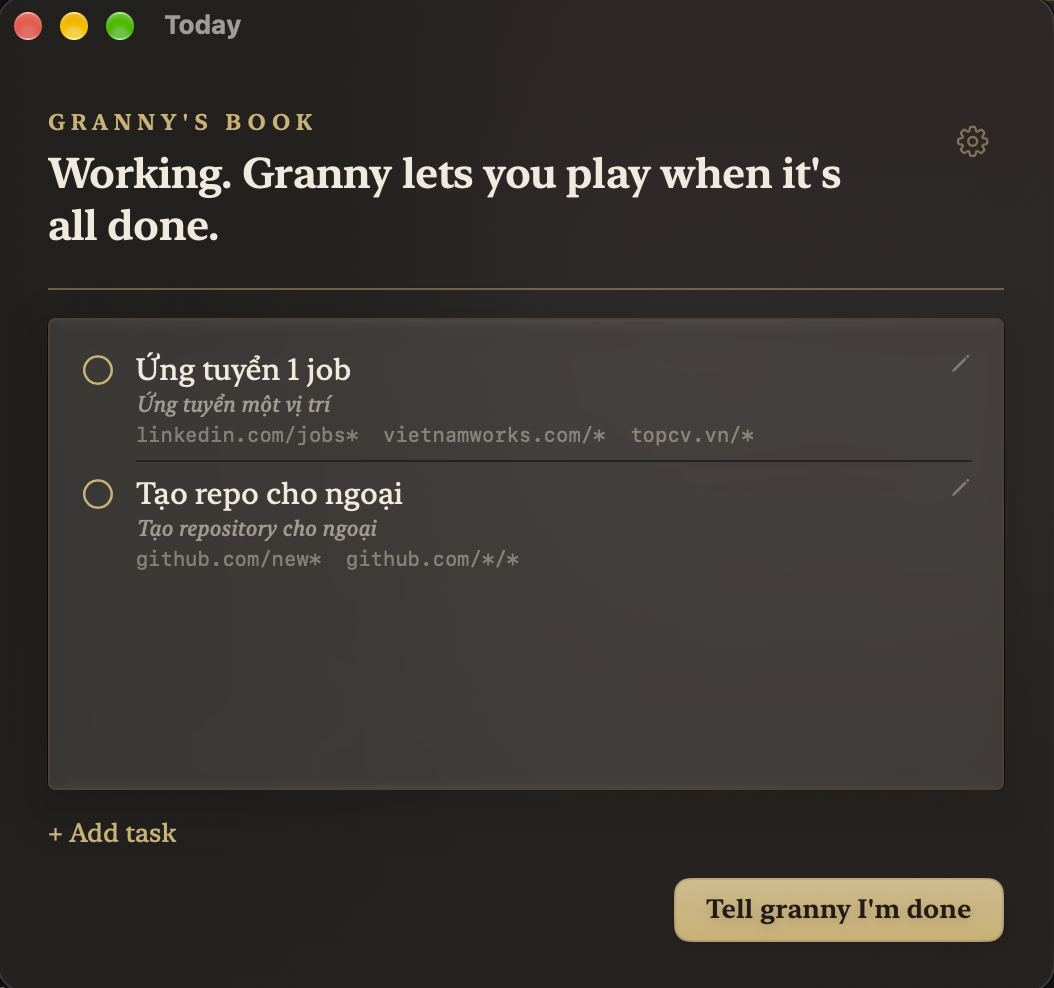
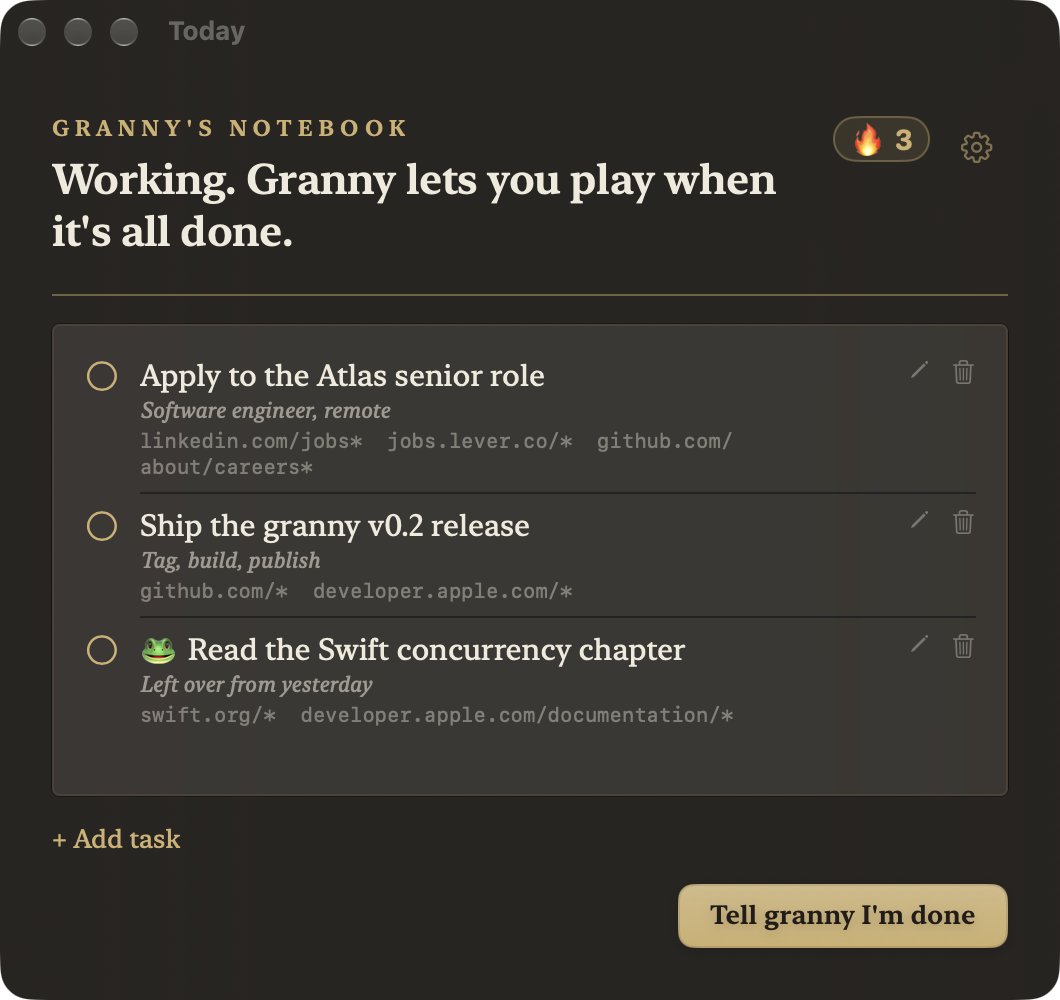
docs: refresh the hero notebook screenshot

diff --git a/components/landing/sections.tsx b/components/landing/sections.tsx
@@ -53,9 +53,9 @@ export function Hero() {
           >
             <Image
               src="/app-dark.png"
-              alt="granny's notebook showing today's tasks and their allowed URL surfaces"
-              width={1160}
-              height={1064}
+              alt="granny's notebook showing today's tasks, the streak badge and their allowed URL surfaces"
+              width={1060}
+              height={1000}
               className="h-auto w-full"
               priority
             />
